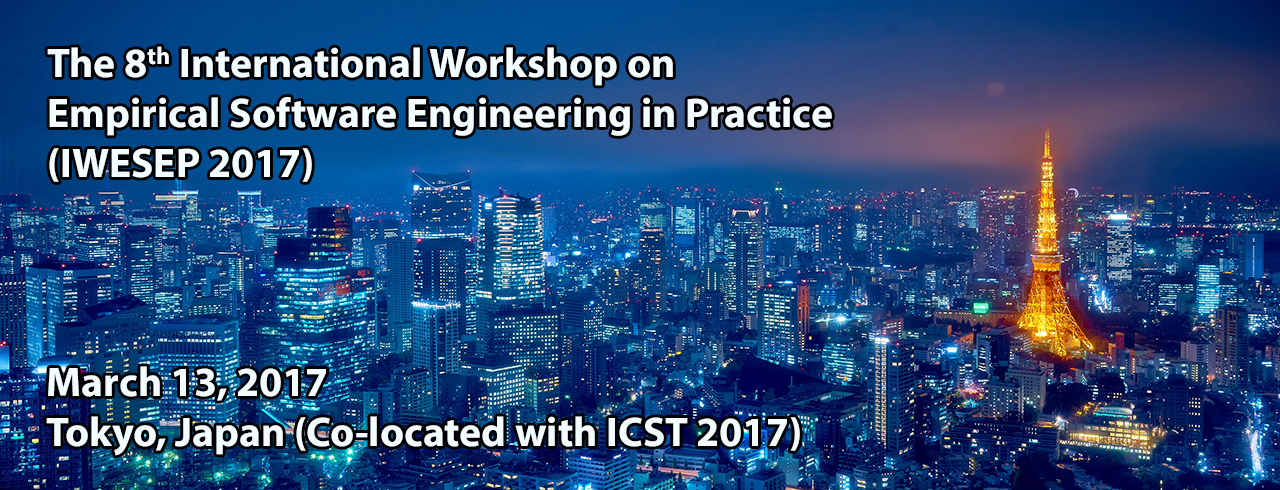
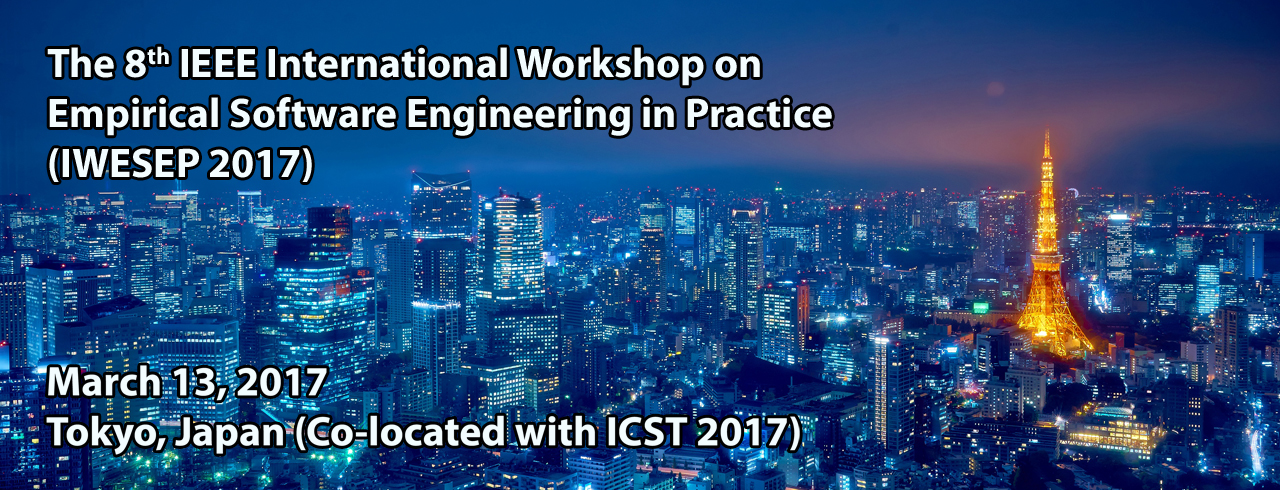
Update conference name

diff --git a/index.md b/index.md
@@ -4,9 +4,9 @@ layout: default
 
 # Welcome to the official website of IWESEP 2017
 
-## The 8th International Workshop on Empirical Software Engineering in Practice (IWESEP)
+## The 8th IEEE International Workshop on Empirical Software Engineering in Practice (IWESEP)
 
-The objective of the **8th International Workshop on Empirical Software Engineering in Practice (IWESEP)** is to foster the development of the area by providing a forum where researchers and practitioners can report on and discuss new research results and applications in the area of empirical software engineering. The workshop encourages the exchange of ideas within the international community so as to be able to understand, from an empirical viewpoint, the strengths and weaknesses of technology in use and new technologies, with the expectation of furthering the more generic field of software engineering.
+The objective of the **8th IEEE International Workshop on Empirical Software Engineering in Practice (IWESEP)** is to foster the development of the area by providing a forum where researchers and practitioners can report on and discuss new research results and applications in the area of empirical software engineering. The workshop encourages the exchange of ideas within the international community so as to be able to understand, from an empirical viewpoint, the strengths and weaknesses of technology in use and new technologies, with the expectation of furthering the more generic field of software engineering.
 
 The workshop focuses on the processes, design and structure of empirical studies as well as the results of specific studies. These studies may be on original or replicated studies, varying from controlled experiments to field studies, from quantitative to qualitative.
 
@@ -14,7 +14,10 @@ The workshop focuses on the processes, design and structure of empirical studies
 
 # Sponsors
 
-[![IEEE Computer Society](images/logo_ieee.jpg){:.sponsor-logo}<center>IEEE Computer Society</center>](https://www.computer.org/)
+[![IEEE](images/logo_ieee.gif){:.sponsor-logo-2}<center>IEEE</center>](https://www.ieee.org/)
+<br/>
+
+[![IEEE Computer Society](images/logo_ieee_com.jpg){:.sponsor-logo}<center>IEEE Computer Society</center>](https://www.computer.org/)
 <br/>
 
 [![Association of Software Test Engineering](images/logo_aster.jpg){:.sponsor-logo-2}<center>Association of Software Test Engineering</center>](http://aster.or.jp/)
